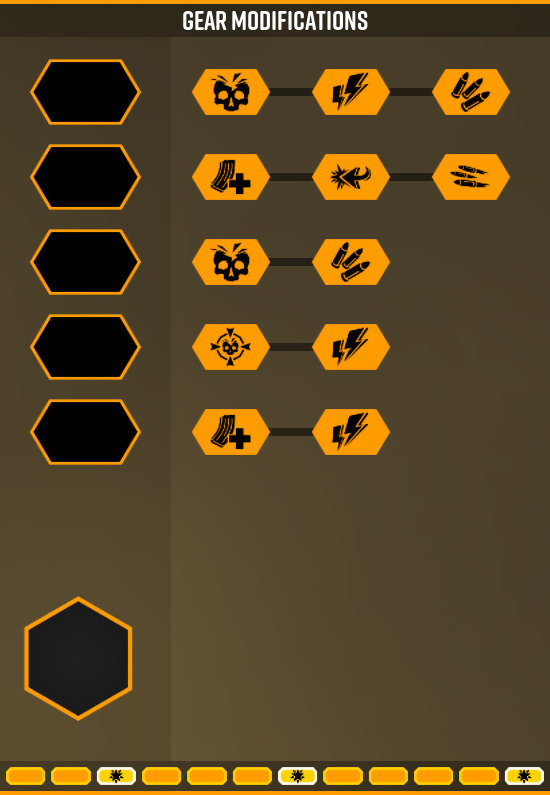
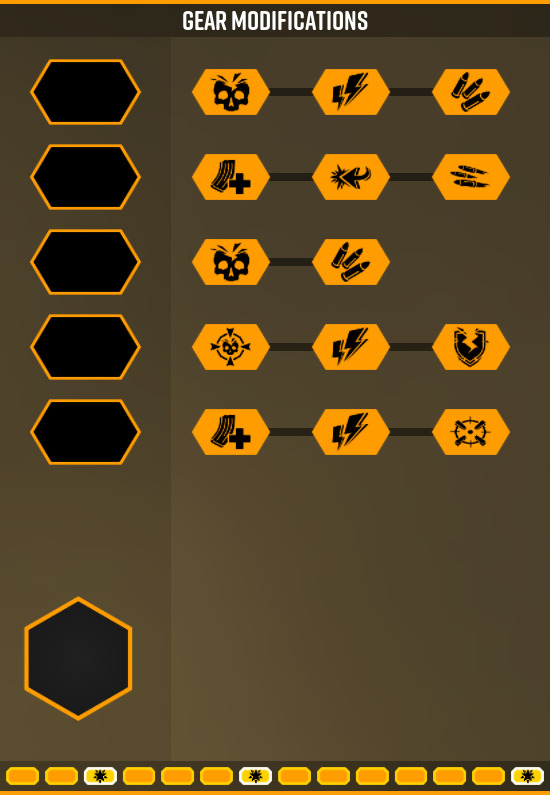
New Stubby and Coil Gun mod trees

diff --git a/images/script.py b/images/script.py
@@ -1,3 +1,5 @@
+# This script handles OCs and upgrades icons.
+
 import os
 import subprocess
 
@@ -63,7 +65,7 @@ def find_oc_type(frame: str) -> tuple[str, str]:
 
 
 # This loop matchs each of the three frames with each upgrade/overclock icon and
-# then uses Magick composite.
+# then composite the overclock icons
 for frame in frames:
     subfolder, oc_type = find_oc_type(frame)
     frame = os.path.join(frames_path, frame)
